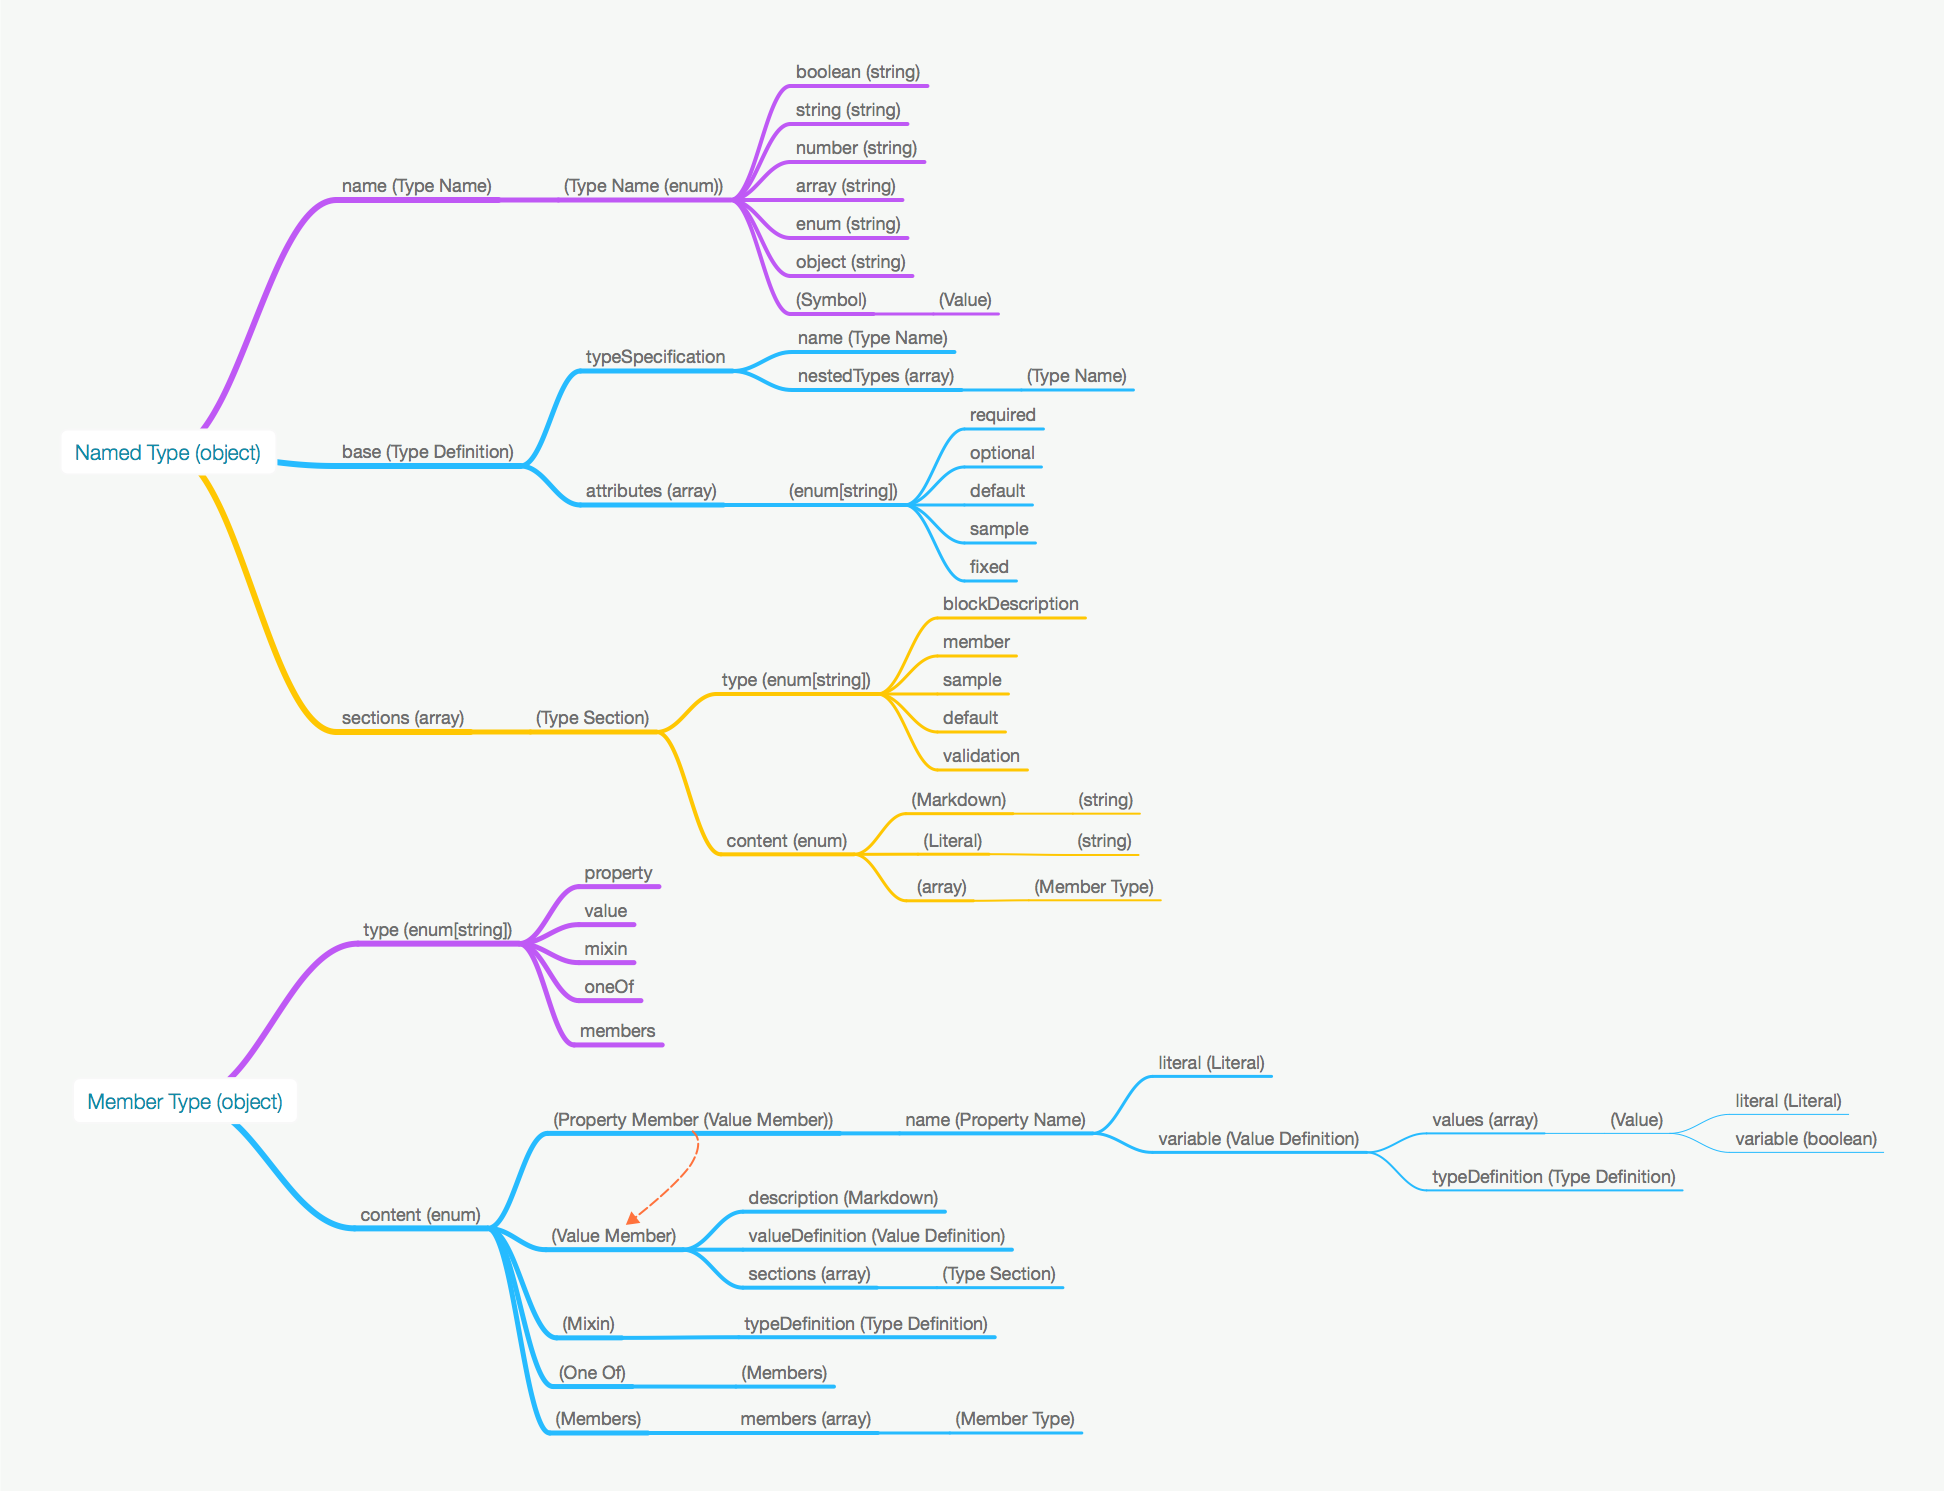
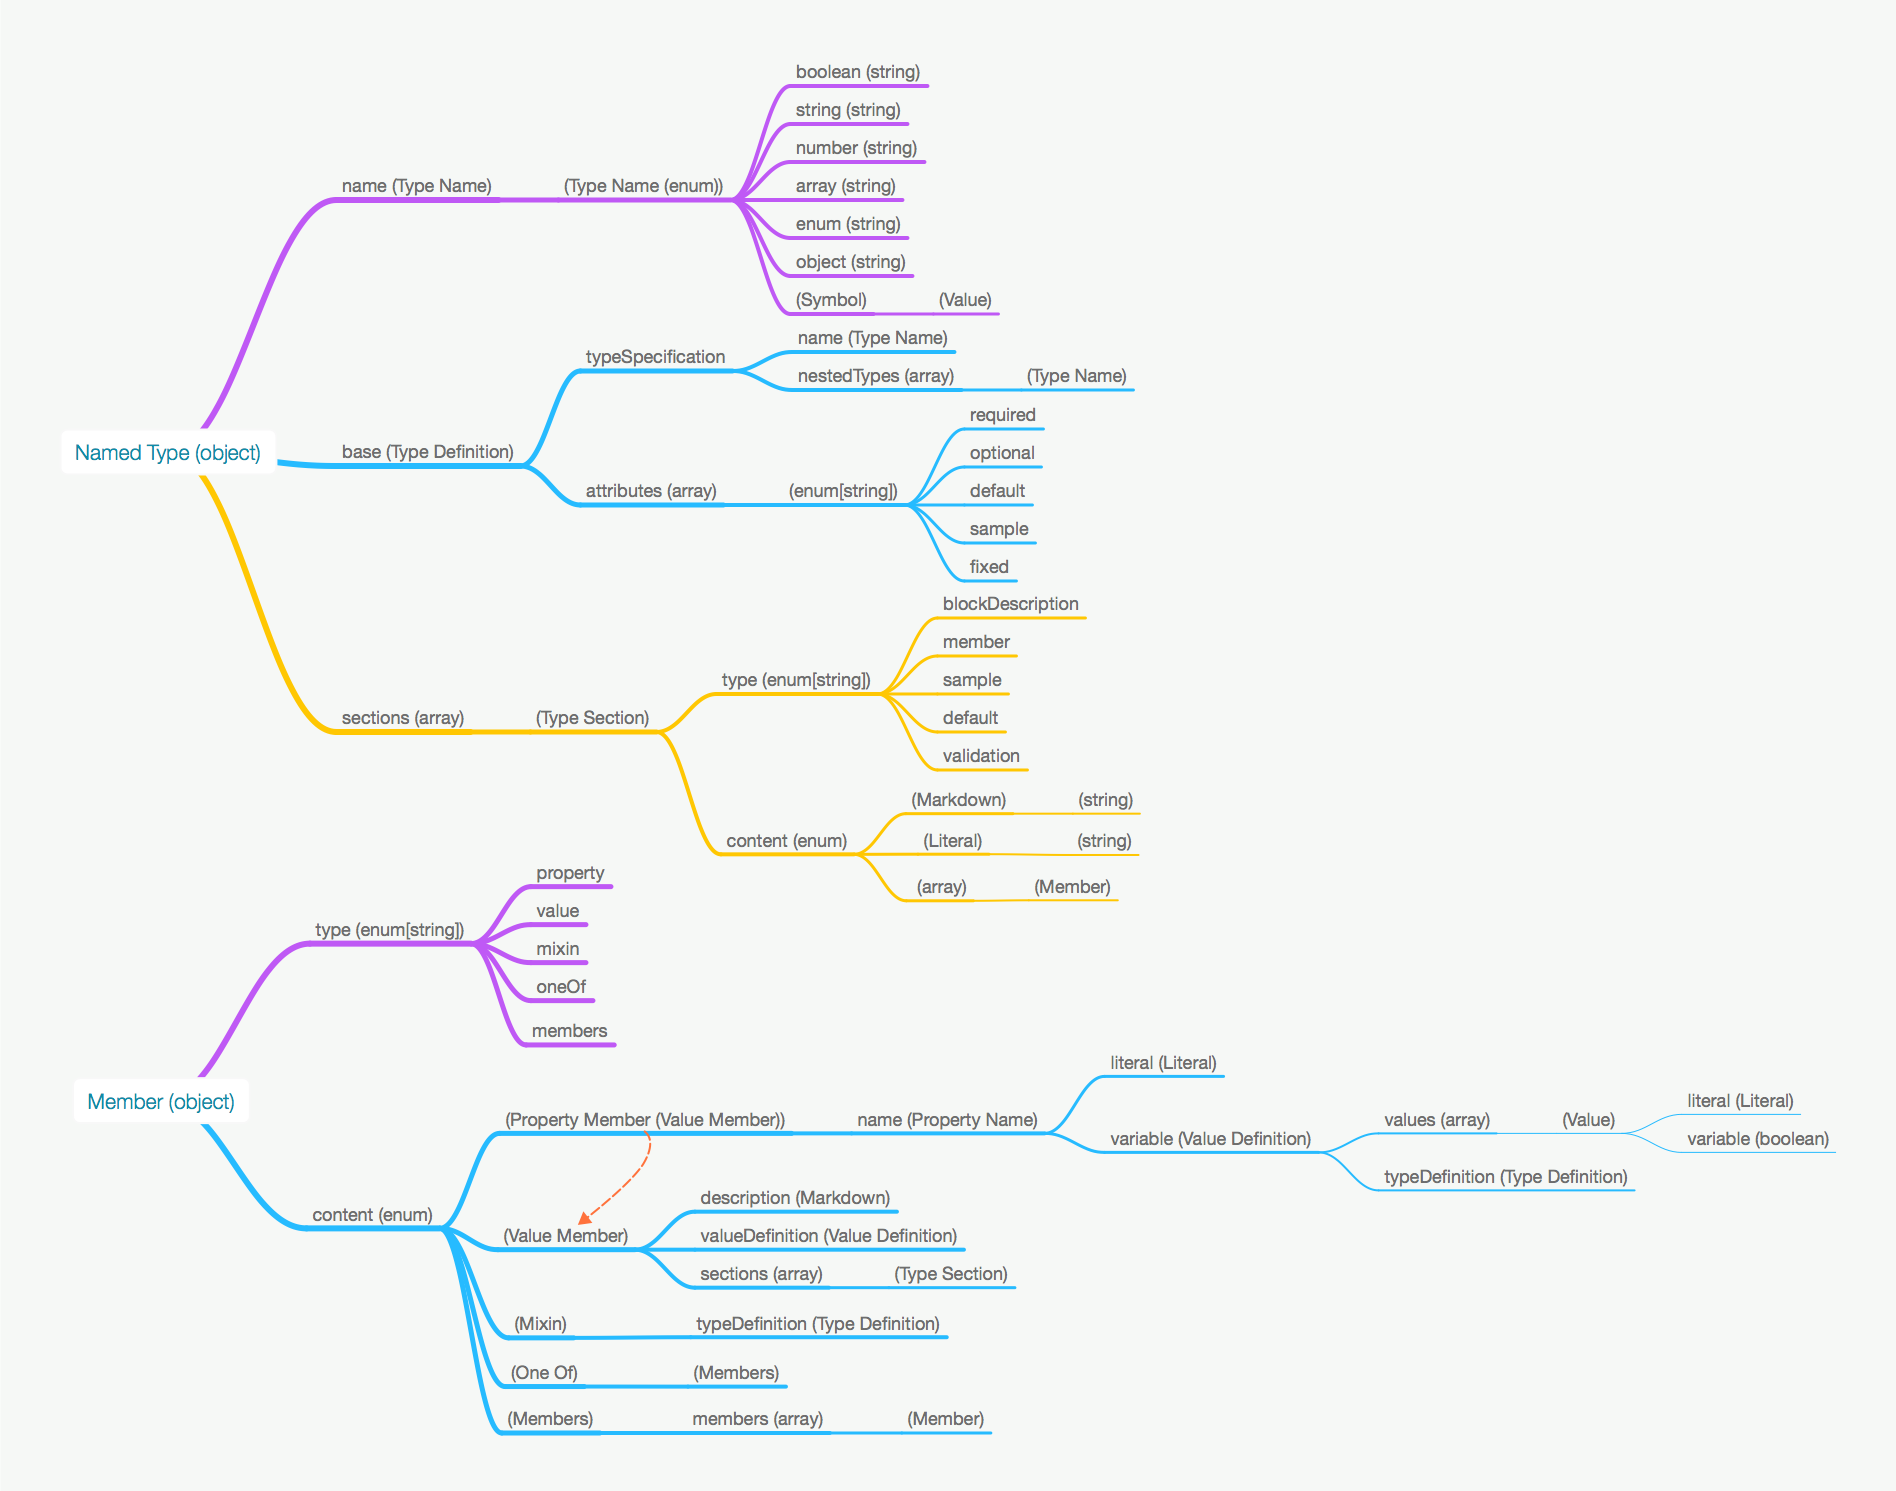
Rename `Member Type` to `Member`

diff --git a/README.md b/README.md
@@ -5,7 +5,7 @@ This document defines serialization formats for [MSON][] abstract syntax tree.
 
 - **Version**: 2.0
 - **Created**: 2014-07-31
-- **Updated**: 2014-10-08
+- **Updated**: 2014-12-15
 
 ## Media Types
 Base type media type is `application/vnd.mson.ast`.
@@ -88,8 +88,8 @@ Section of a type. The section can be any of the [Type Sections][] as described 
     - ([Literal][]) - Literal value for a type with a primitive base type (`sample` or `default` types only)
     - (array[[Member Type][]]) - Member types for a type of a structured base type (`member`, `sample` or `default` types only)
 
-### Member Type
-Member Type of a structure as described in the MSON Specification. In addition, this object may also represent [Mixin][] and / or [One Of][] types.
+### Member
+Member of a structure as described in the MSON Specification. In addition, this object may also represent [Mixin][] and / or [One Of][] types.
 
 #### Properties
 - `type` (enum[string]) - Type of the member object
@@ -140,10 +140,10 @@ One Of type. In the case of AST the One Of type is treated as a special case of 
 Note only Member Types of `property`, `mixin`, `oneOf` and `members` are allowed in the members array.
 
 ### Members
-Member Type Group. Type representing a collection of member types. Only used as a member for `oneOf` type.
+Members group. Type representing a collection of member types. Only used as a member for `oneOf` type.
 
 #### Properties
-- `members` (array[[Member Type][]]) - List of member types.
+- `members` (array[[Member][]]) - List of member types.
 
 ### Value Definition
 Value definition of a type instance.
@@ -350,7 +350,7 @@ Literal value in the form of a plain-text.
 [Type Definition]: #type-definition
 [Type Section]: #type-section
 [Symbol]: #symbol
-[Member Type]: #member-type
+[Member]: #member
 [Markdown]: #markdown-string
 [Literal]: #literal-string
 [Value]: #value
